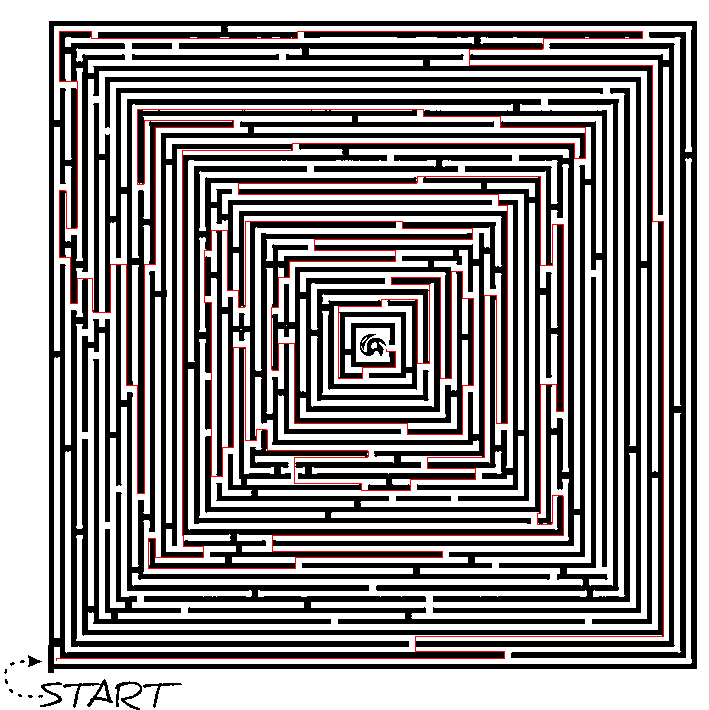
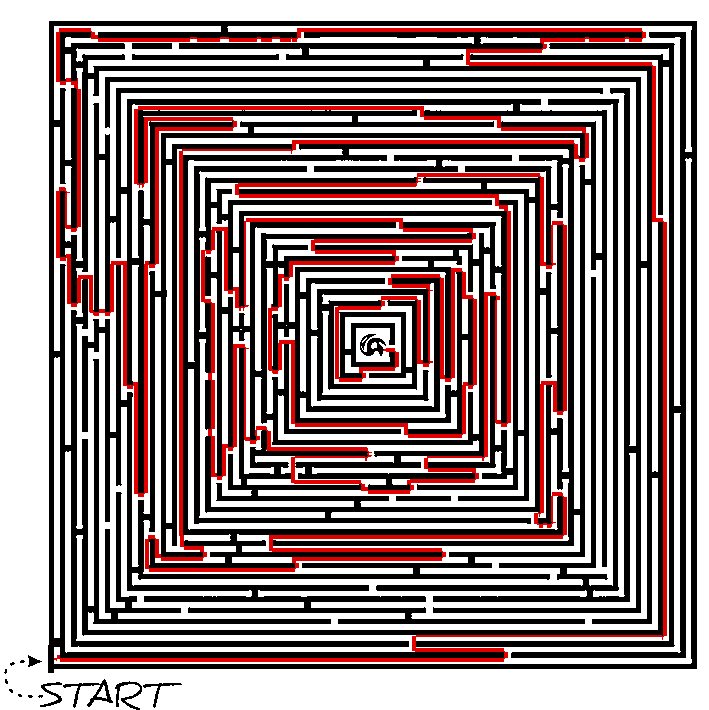
fix for #1 , changes in make_me_free.py

diff --git a/make_me_free.py b/make_me_free.py
@@ -4,8 +4,13 @@ import sys
 
 start = (56, 660)
 end = (386, 349)
-#iterations = 0
+iterations = 0
 img_canvas = 0
+
+
+def std_write(s):
+    sys.stdout.write(s)
+    sys.stdout.flush()
 
 
 def iswhite(value):
@@ -13,12 +18,56 @@ def iswhite(value):
         return True
 
 
-#def output(pixels):
-    #global iterations
-    #im = Image.new("RGB", img_canvas)
-    #im.putdata(pixels)
-    #im = Image.open(pixels)
-    #im.save("t-" + str(iterations))
+def determineDirection(x, y, px, py):
+    direction = None
+    if (x > px):
+        direction = 'E'
+    elif (y > py):
+        direction = 'S'
+    elif (x < px):
+        direction = 'W'
+    elif (y < py):
+        direction = 'N'
+    else:
+        direction = '-'
+    return direction
+
+
+def makeHerRed(pixel):
+    if iswhite(pixel):
+        return (225, 0, 0)
+    else:
+        return pixel
+
+
+def drawRedLine(x, y, px, py, pixel, thick):
+    black = (0, 0, 0)
+    red = (225, 0, 0)  # red
+    pixel[x, y] = red
+
+    d = determineDirection(x, y, px, py)
+    if (d in ['E', 'W']):
+        direction = 'up'
+        if pixel[x, y-1] == black:
+            direction = 'down'
+        if pixel[x, y+1] == black:
+            direction = 'up'
+        for i in range(1, thick):
+            if direction == 'up':
+                pixel[x, y-i] = makeHerRed(pixel[x, y-i])
+            else:
+                pixel[x, y+i] = makeHerRed(pixel[x, y+i])
+    elif (d in ['N', 'S']):
+        direction = 'left'
+        if pixel[x-1, y] == black:
+            direction = 'right'
+        if pixel[x+1, y] == black:
+            direction = 'left'
+        for i in range(1, thick):
+            if direction == 'left':
+                pixel[x-i, y] = makeHerRed(pixel[x-i, y])
+            else:
+                pixel[x+i, y] = makeHerRed(pixel[x+i, y])
 
 
 def getadjacent(n):
@@ -37,9 +86,9 @@ def BFS(start, end, pixels):
         path = queue.get()
         pixel = path[-1]
 
-        #iterations += 1
-        #if (iterations % 500):
-        #    output(pixels)
+        iterations += 1
+        if (iterations % 50000 == 0):
+            std_write('+')
 
         if pixel == end:
             return path
@@ -76,11 +125,12 @@ if __name__ == '__main__':
     result_img = Image.open("proper_input.png")
     result_img = result_img.convert('RGB')
     path_pixels = result_img.load()
-    #print str(path)
 
+    px, py = path[0]
     for position in path:
         x, y = position
-        path_pixels[x, y] = (255, 0, 0)  # red
+        drawRedLine(x, y, px, py, path_pixels, 4)
+        px, py = position
 
-    #print 'iterations: ' + str(iterations)
+    print 'Iterations processed: ' + str(iterations)
     result_img.save(sys.argv[2])
